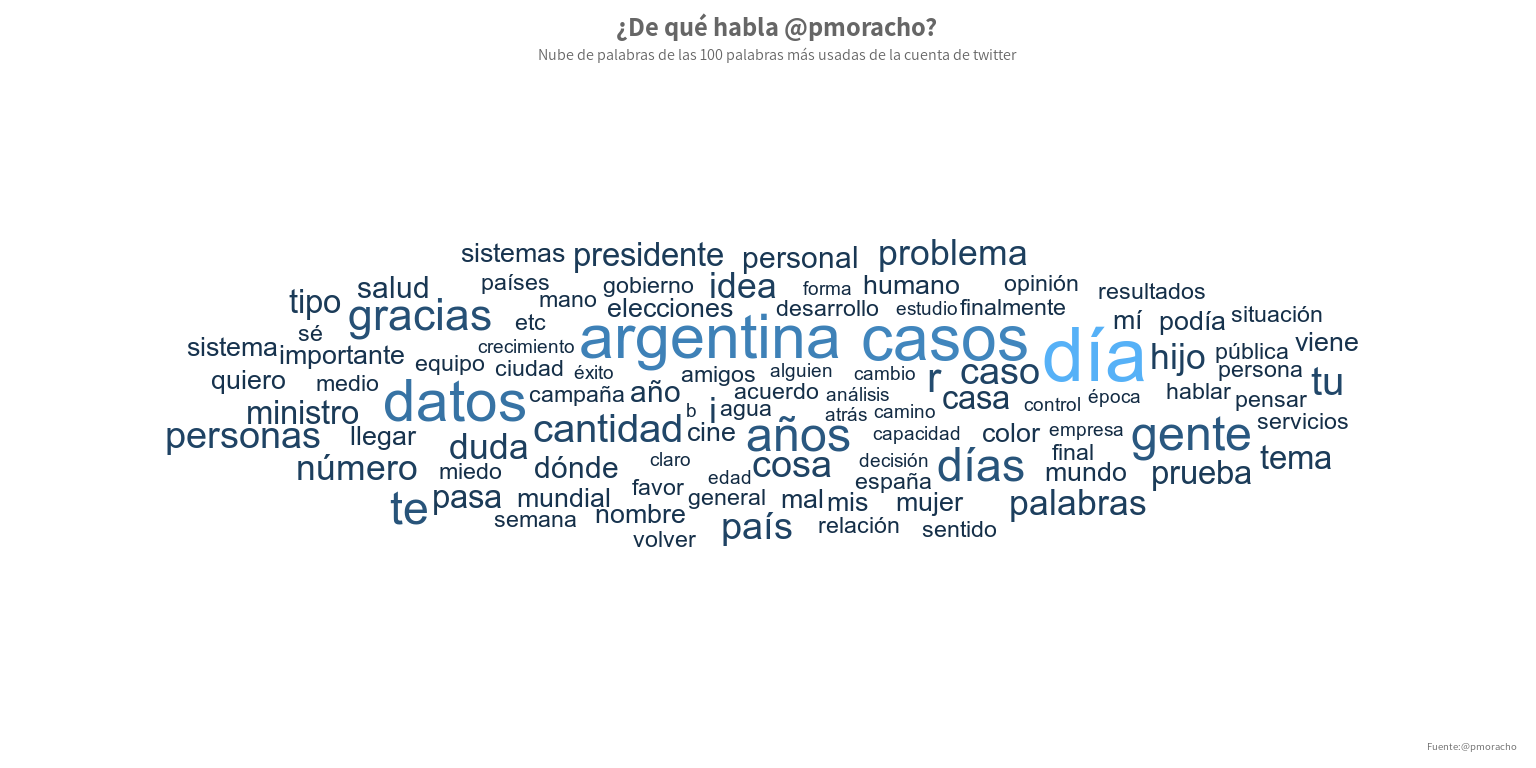
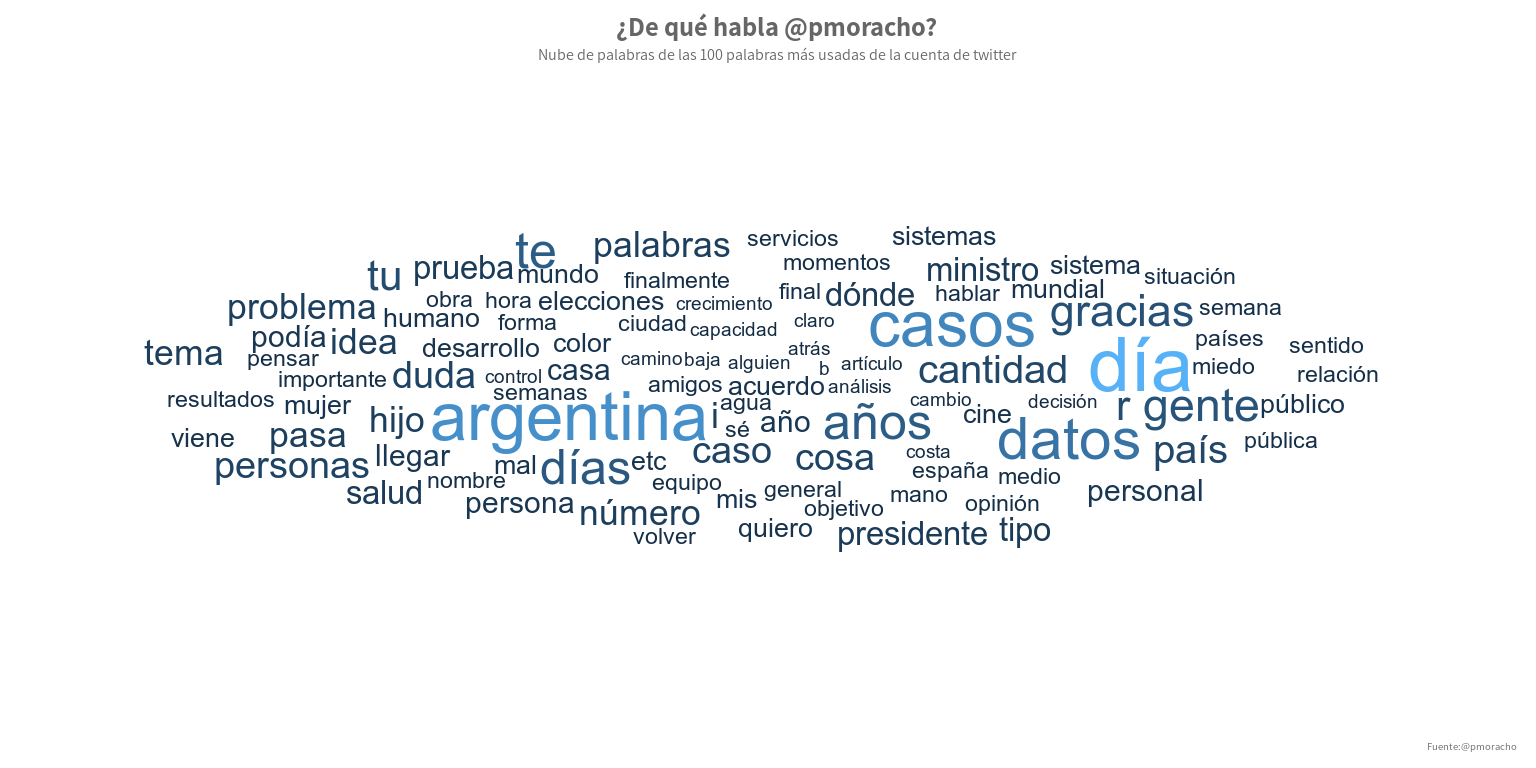
arreglos varios de 30 días de gráficos

Changed region(s): [[0.0938, 0.2812, 0.9062, 0.7188]]

diff --git a/_posts/2020/2020-05-24-30-dias-de-graficos-en-r.md b/_posts/2020/2020-05-24-30-dias-de-graficos-en-r.md
@@ -1484,6 +1484,15 @@ covid.data %>%
 kable(head(plot_data))
 ```
 
+| sexo     | clasif\_edad |    n | freq |
+| :------- | :----------- | ---: | ---: |
+| Femenino | \>= 66       | 1339 |   11 |
+| Femenino | 0 a 6        |  519 |    4 |
+| Femenino | 15 a 35      | 4504 |   39 |
+| Femenino | 36 a 65      | 4583 |   39 |
+| Femenino | 7 a 14       |  705 |    6 |
+| Femenino | NA           |    4 |    0 |
+
 ### La grafica:
 
 ``` r
@@ -1501,7 +1510,12 @@ plot_data %>%
        caption = "Fuente: datos.gob.ar",
        y = "",
        x = "") 
-  2# theme(axis.text.x=element_blank())
+```
+
+<img src="/images/2020/2020-05-24-30-dias-de-graficos-en-r_files/figure-gfm/dia16-1.png" style="display: block; margin: auto;" />
+
+``` r
+  # theme(axis.text.x=element_blank())
 ```
 
 ## Día 17: Un Sankey o Alluvial
@@ -1564,6 +1578,21 @@ covid.data %>%
     summarise(n = n()) %>% 
   ungroup() -> plot_data
 
+kable(head(plot_data))
+```
+
+| clasif\_edad | sexo      | internado   | fallecido  |   n |
+| :----------- | :-------- | :---------- | :--------- | --: |
+| 0 a 6        | Femenino  | Ambulatorio | Recuperado | 366 |
+| 0 a 6        | Femenino  | Internado   | Recuperado | 153 |
+| 0 a 6        | Masculino | Ambulatorio | Recuperado | 416 |
+| 0 a 6        | Masculino | Internado   | Recuperado | 165 |
+| 7 a 14       | Femenino  | Ambulatorio | Recuperado | 552 |
+| 7 a 14       | Femenino  | Internado   | Recuperado | 152 |
+
+### La grafica:
+
+``` r
 plot_data %>% 
   ggplot(mapping=aes(y = n,
                      axis1 = fallecido, axis2 = internado, axis3 = sexo, axis4 = clasif_edad)) +
@@ -1619,6 +1648,21 @@ delitos %>%
   st_as_sf(coords = c("long","lat"), remove = FALSE,  crs = 4326) %>% 
   st_join(comunas)-> delitos_puntos
 
+kable(head(plot_data))
+```
+
+| clasif\_edad | sexo      | internado   | fallecido  |   n |
+| :----------- | :-------- | :---------- | :--------- | --: |
+| 0 a 6        | Femenino  | Ambulatorio | Recuperado | 366 |
+| 0 a 6        | Femenino  | Internado   | Recuperado | 153 |
+| 0 a 6        | Masculino | Ambulatorio | Recuperado | 416 |
+| 0 a 6        | Masculino | Internado   | Recuperado | 165 |
+| 7 a 14       | Femenino  | Ambulatorio | Recuperado | 552 |
+| 7 a 14       | Femenino  | Internado   | Recuperado | 152 |
+
+### La grafica:
+
+``` r
 ggplot(delitos_puntos) +
   geom_sf(data = comunas, fill = "white") +
   geom_sf(data = delitos_puntos, aes(color=tipo_delito, alpha = 1), size=1) +
@@ -1743,21 +1787,38 @@ covid.data %>%
                                  edad > 65 ~ '>= 66')) %>% 
   select(sexo, edad, clasif_edad, internado, cui, arm, fallecido) %>%
   group_by(clasif_edad, sexo, internado, fallecido) %>% 
-  summarise(n = n()) -> plot_data
+  summarise(n = n()) -> data
 
 
-plot_data %>% 
+data %>% 
   group_by(sexo, clasif_edad) %>% 
   summarise(n=sum(n)) %>% 
   select(from=sexo, to=clasif_edad, n) -> sexo_edad
 
-plot_data %>% 
+data %>% 
   group_by(internado, clasif_edad) %>% 
   summarise(n=sum(n)) %>% 
   select(to=internado, from=clasif_edad, n) -> internado_edad
 
 internado_edad %>%
-  rbind(sexo_edad) %>% 
+  rbind(sexo_edad) -> plot_data
+
+kable(head(plot_data))
+```
+
+| to        | from     |    n |
+| :-------- | :------- | ---: |
+| Internado | \>= 66   | 2479 |
+| Internado | 0 a 6    | 1100 |
+| Internado | 15 a 35  | 9003 |
+| Internado | 36 a 65  | 9539 |
+| Internado | 7 a 14   | 1381 |
+| \>= 66    | Femenino | 1339 |
+
+### La grafica:
+
+``` r
+plot_data %>% 
   graph_from_data_frame() %>% 
   ggraph(layout = 'stress') +
   geom_edge_link(aes(edge_width=n), show.legend = TRUE, alpha=0.5, color = "#67a9cf") +
@@ -1852,14 +1913,13 @@ if ("ggelegant" %in% rownames(installed.packages())) {
   theme_elegante_std <- function(base_family) {}
 }
 
-# Twitter API Completar con los datos apropiados
-#   create_token(
-#     app = "",
-#     consumer_key = "",
-#     consumer_secret = "",
-#     access_token = "",
-#     access_secret = a"pi.security$access_secret""
-#   )
+# authenticate via web browser
+# token <- create_token(
+#   app = "MarloweApp",
+#   consumer_key = "",
+#   consumer_secret = "",
+#   access_token = "",
+#   access_secret = "")
 
 # Datos Originales
 # RAE_Corpus_1000 <- read.table(file="http://corpus.rae.es/frec/1000_formas.TXT", skip=1, header=FALSE,
@@ -1887,7 +1947,24 @@ my_words %>%
 my_words %>%
   inner_join(my_words_count %>% head(100), by = "word") %>% 
   # filter(!(word %in% c('https', 'http'))) %>% 
-  count(word) %>% 
+  count(word) -> plot_data
+
+kable(head(plot_data))
+```
+
+| word     | n |
+| :------- | -: |
+| acuerdo  | 4 |
+| agua     | 3 |
+| alguien  | 2 |
+| amigos   | 3 |
+| análisis | 2 |
+| año      | 5 |
+
+### La grafica:
+
+``` r
+plot_data %>% 
   ggplot(aes(label = word, size=n, color=n)) +
   geom_text_wordcloud() +
   scale_size_area(max_size = 20) +
@@ -1939,6 +2016,34 @@ plot_data %>%
          text = paste0(cantidad),
          text2 = max(dia)-dia) -> label_data
 
+kable(head(plot_data))
+```
+
+| dia | fecha      | distrito | cantidad | nr |
+| --: | :--------- | :------- | -------: | -: |
+|  91 | 2020-06-03 | Chaco    |        6 |  1 |
+|  92 | 2020-06-04 | Chaco    |       53 |  2 |
+|  93 | 2020-06-05 | Chaco    |       29 |  3 |
+|  94 | 2020-06-06 | Chaco    |       19 |  4 |
+|  95 | 2020-06-07 | Chaco    |       18 |  5 |
+|  96 | 2020-06-08 | Chaco    |       45 |  6 |
+
+``` r
+kable(head(label_data))
+```
+
+| dia | fecha      | distrito | cantidad | nr |    angle | hjust | text | text2 |
+| --: | :--------- | :------- | -------: | -: | -------: | ----: | :--- | ----: |
+|  91 | 2020-06-03 | Chaco    |        6 |  1 | 85.90909 |     0 | 6    |     6 |
+|  92 | 2020-06-04 | Chaco    |       53 |  2 | 77.72727 |     0 | 53   |     5 |
+|  93 | 2020-06-05 | Chaco    |       29 |  3 | 69.54545 |     0 | 29   |     4 |
+|  94 | 2020-06-06 | Chaco    |       19 |  4 | 61.36364 |     0 | 19   |     3 |
+|  95 | 2020-06-07 | Chaco    |       18 |  5 | 53.18182 |     0 | 18   |     2 |
+|  96 | 2020-06-08 | Chaco    |       45 |  6 | 45.00000 |     0 | 45   |     1 |
+
+### La grafica:
+
+``` r
 plot_data %>% 
   ggplot(aes(x=nr, y=cantidad+1, fill=distrito)) +
   geom_bar(stat="identity", alpha=0.5, color="black", size=.05) +
@@ -2019,7 +2124,24 @@ delitos_puntos %>%
   select(barrios, comunas, nrank) -> ranking_comunas
 
 comunas %>% 
-  left_join(ranking_comunas,  by = "comunas") %>% 
+  left_join(ranking_comunas,  by = "comunas") -> plot_data
+
+kable(head(plot_data))
+```
+
+| barrios.x                                                                   | perimetro |     area | comunas | barrios.y                                                                   | nrank | geometry                     |
+| :-------------------------------------------------------------------------- | --------: | -------: | :------ | :-------------------------------------------------------------------------- | ----: | :--------------------------- |
+| CONSTITUCION - MONSERRAT - PUERTO MADERO - RETIRO - SAN NICOLAS - SAN TELMO |  35572.65 | 17802807 | 1       | CONSTITUCION - MONSERRAT - PUERTO MADERO - RETIRO - SAN NICOLAS - SAN TELMO |   814 | MULTIPOLYGON (((-58.36854 -… |
+| RECOLETA                                                                    |  21246.61 |  6140873 | 2       | RECOLETA                                                                    |   296 | MULTIPOLYGON (((-58.39521 -… |
+| BALVANERA - SAN CRISTOBAL                                                   |  10486.26 |  6385991 | 3       | BALVANERA - SAN CRISTOBAL                                                   |   651 | MULTIPOLYGON (((-58.41192 -… |
+| BARRACAS - BOCA - NUEVA POMPEYA - PARQUE PATRICIOS                          |  36277.44 | 21701236 | 4       | BARRACAS - BOCA - NUEVA POMPEYA - PARQUE PATRICIOS                          |  1069 | MULTIPOLYGON (((-58.3552 -3… |
+| ALMAGRO - BOEDO                                                             |  12323.47 |  6660526 | 5       | ALMAGRO - BOEDO                                                             |   643 | MULTIPOLYGON (((-58.41287 -… |
+| CABALLITO                                                                   |  10990.96 |  6851029 | 6       | CABALLITO                                                                   |   536 | MULTIPOLYGON (((-58.43061 -… |
+
+### La grafica:
+
+``` r
+plot_data %>% 
   ggplot() +
     geom_sf(aes(fill = nrank), color="gray60") +
   scale_fill_viridis(option = "inferno", direction = -1) +
